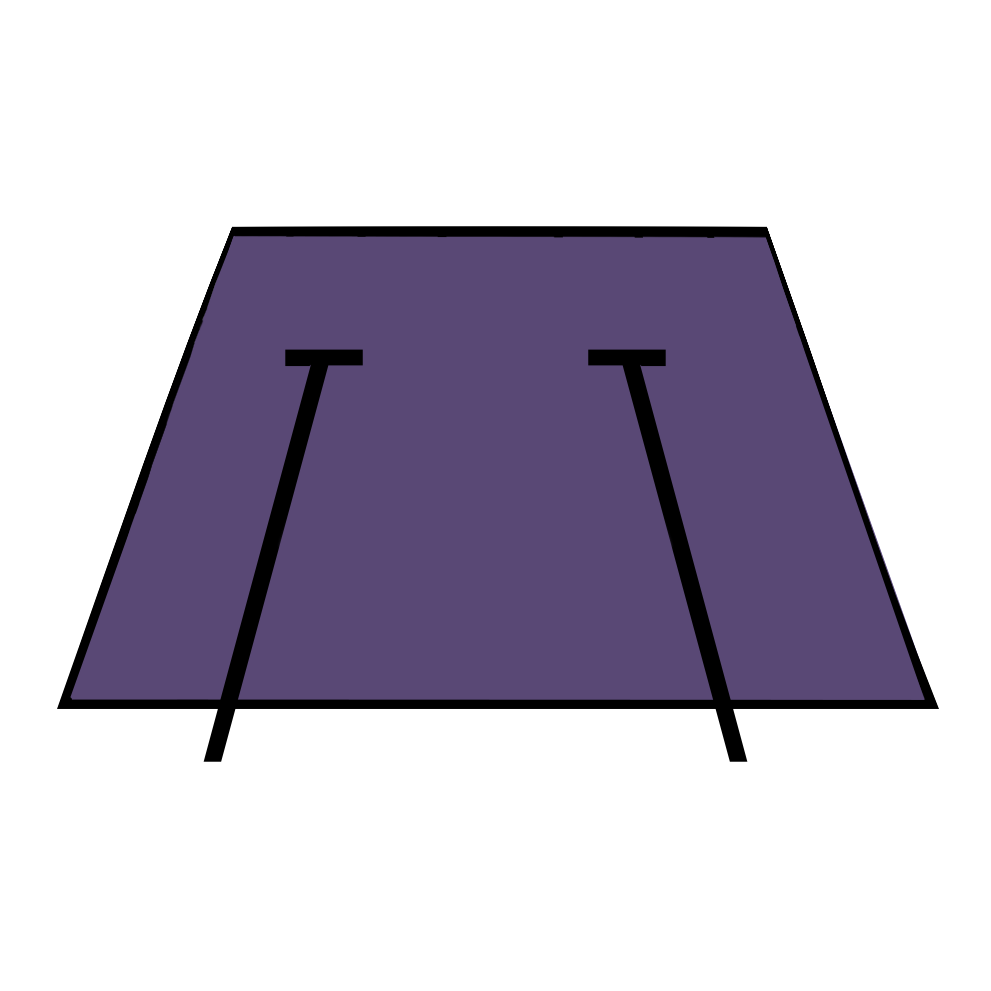
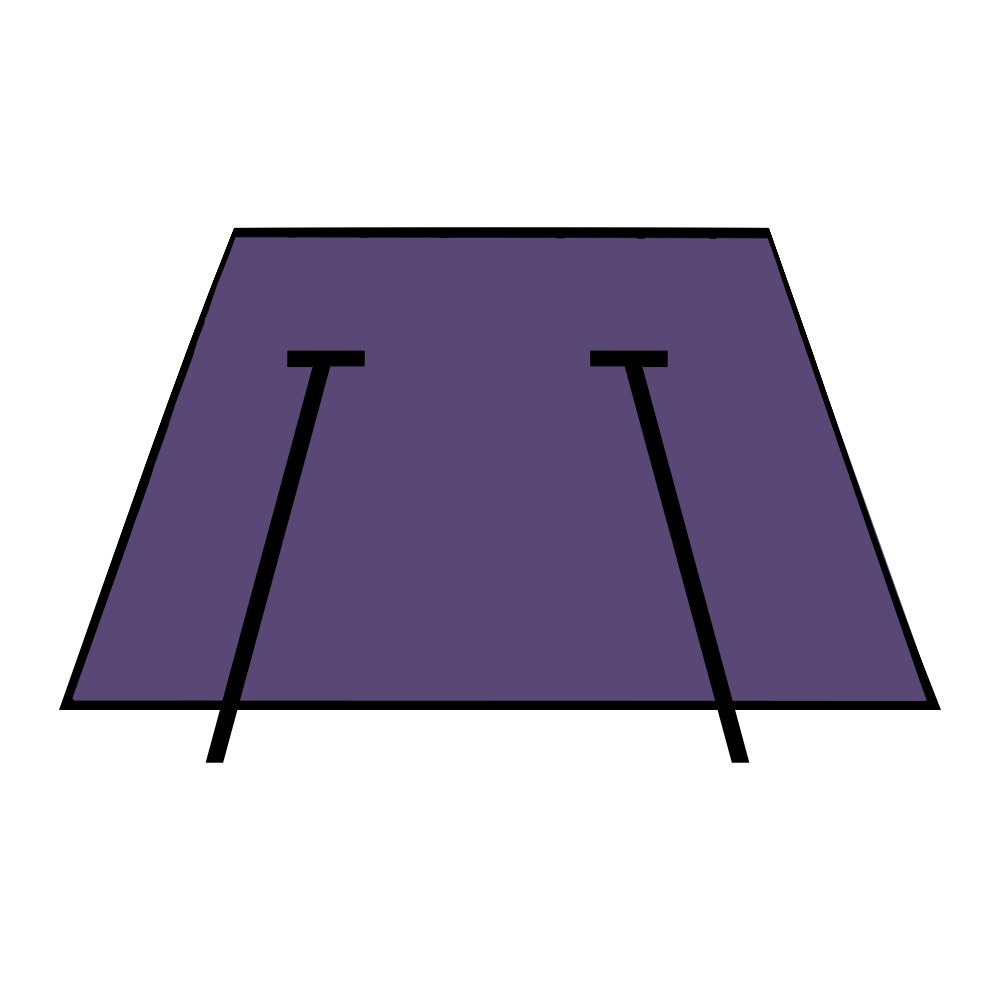
Fixed art and angle changes
- Added correct assets for solar panels
- Made angle change less hacky

diff --git a/Assets/Scripts/solar game/SolarGameController.cs b/Assets/Scripts/solar game/SolarGameController.cs
@@ -1,7 +1,7 @@
 using System.Collections;
 using System.Collections.Generic;
 using UnityEngine;
-//using UnityEngine.UI;
+using UnityEngine.UI;
 
 public class SolarGameController : MonoBehaviour
 {
@@ -9,17 +9,14 @@ public class SolarGameController : MonoBehaviour
     public int selectedPanel = -1;
     private ButtonImageSwitch button;
     private ChangeAngle changeAngle;
-    private int level;
     // Start is called before the first frame update
     void Start()
     {
         panels = FindObjectsOfType<Select_Panel>();
         button = FindObjectOfType<ButtonImageSwitch>();
         changeAngle = FindObjectOfType<ChangeAngle>();
-        level = MasterEventSystem.Instance.getMinigameLevel();
+        int level = MasterEventSystem.Instance.getMinigameLevel();
         setUpLevel(level);
-        //int level = MasterEventSystem.Instance.getMinigameLevel();
-        //setUpLevel(level);
     }
 
     // Update is called once per frame
@@ -58,22 +55,28 @@ public class SolarGameController : MonoBehaviour
         button.changeButtonImage();
     }
 
-    /*
+    
     private void setUpLevel(int level)
     {
         if(level < 1)
         {
-            for(int i = 3; i < panels.Length; i++)
+            foreach(var panel in panels)
             {
-                panels[i].GetComponent<Button>().interactable = false;
+                if(panel.PanelID > 2)
+                {
+                    panel.GetComponent<Button>().interactable = false;
+                }
             }
         }
         else if (level < 2)
         {
-            for(int i = 6; i < panels.Length; i++)
+            foreach (var panel in panels)
             {
-                panels[i].GetComponent<Button>().interactable = false;
+                if (panel.PanelID > 5)
+                {
+                    panel.GetComponent<Button>().interactable = false;
+                }
             }
         }
-    }*/
+    }
 }

diff --git a/Assets/Scripts/solar game/ChangeAngle.cs b/Assets/Scripts/solar game/ChangeAngle.cs
@@ -26,13 +26,19 @@ public class ChangeAngle : MonoBehaviour
     // Update is called once per frame
     void Update()
     {
-        
+
     }
 
     public void setAngleImageDirection()
     {
         int selectedPanel = gameController.getSelectedPanel();
-        textBox = panels[panels.Length - 1 - selectedPanel].GetComponentInChildren<TextMeshProUGUI>();
+        foreach (Select_Panel panel in panels)
+        {
+            if (panel.PanelID == selectedPanel)
+            {
+                textBox = panel.GetComponentInChildren<TextMeshProUGUI>();
+            }
+        }
 
         switch (textBox.text)
         {
@@ -65,15 +71,24 @@ public class ChangeAngle : MonoBehaviour
     public void changeAngleImage()
     {
         int selectedPanel = gameController.getSelectedPanel();
-        foreach (Select_Panel panel in panels) 
-        { 
-            if(panel.PanelID == selectedPanel)
+        foreach (Select_Panel panel in panels)
+        {
+            if (panel.PanelID == selectedPanel)
             {
                 textBox = panel.GetComponentInChildren<TextMeshProUGUI>();
             }
         }
 
+        int level = MasterEventSystem.Instance.getMinigameLevel();
+
         direction = (direction + 1) % 5;
+        if (level == 0 || level == 1)
+        {
+            if(direction == 1 || direction == 3)
+            {
+                direction++;
+            }
+        }
 
         var imageComponent = panelImage;
 
